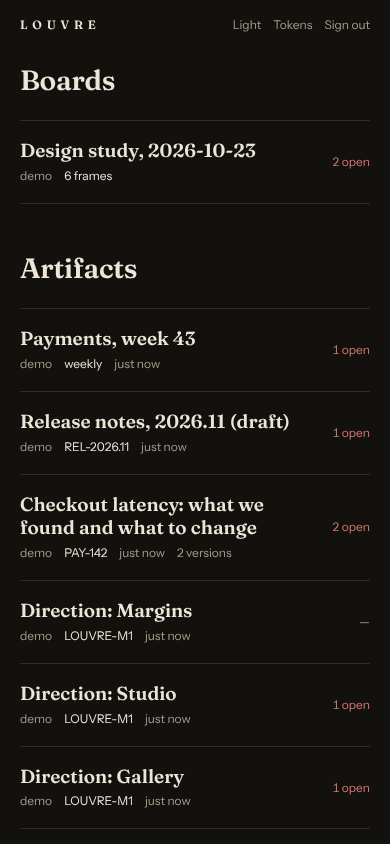
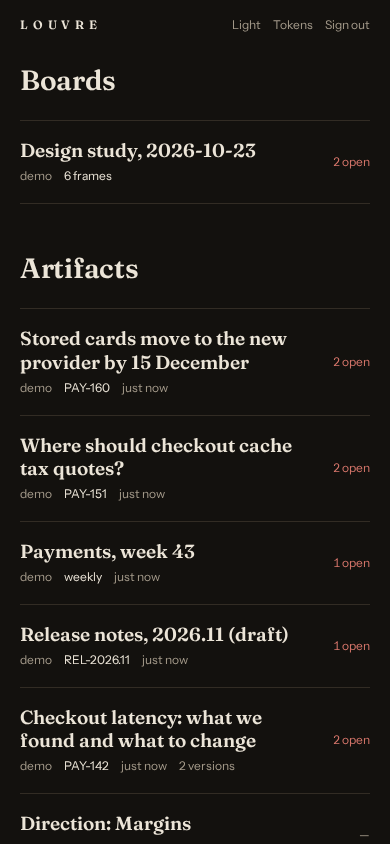
feat(demo): a decision and a plan in the house style, and the weekly report on its new components
The demo now shows each kind of artifact louvre-1 has a starter for, as an agent would write it, with
threads in the margin: a decision on where checkout caches tax quotes (PAY-151) and a plan to move stored
cards to a new provider (PAY-160). The weekly report uses the meta line, KPI changes, a labeled chart with a
legend, number columns, and a footer. Each is a scene in the screen matrix.

Claude-Session: https://claude.ai/code/session_01VfzVdbRGDhUrLtUKJFo9ax

diff --git a/src/louvre/core/demo/__init__.py b/src/louvre/core/demo/__init__.py
@@ -83,6 +83,8 @@ def seed(conn: Connection, *, base_url: str = "") -> bool:
             ({"canopy.ticket": "PAY-142"}, _checkout),
             ({"canopy.ticket": "REL-2026.11"}, _release_notes),
             ({"canopy.report": "weekly"}, _weekly),
+            ({"canopy.ticket": "PAY-151"}, _quote_cache),
+            ({"canopy.ticket": "PAY-160"}, _vault_migration),
         )
         missing = [
             part for marker, part in parts if not agent.overview(origin=marker, namespace=NAMESPACE)["artifacts"]
@@ -193,12 +195,11 @@ def _release_notes(agent: Store, people: dict[str, Store]) -> None:
 
 
 def _weekly(agent: Store, people: dict[str, Store]) -> None:
-    """An HTML page an agent wrote in the house style, from `style_get`."""
-    template = (_FILES / "weekly-metrics.html.tmpl").read_text(encoding="utf-8")
+    """A report an agent wrote in the house style, from `style_get`."""
     made = agent.publish(
         title="Payments, week 43",
         content_type="text/html",
-        content=template.replace("{css}", style.CSS.rstrip()),
+        content=_styled("weekly-metrics.html.tmpl"),
         origin={"canopy.report": "weekly"},
     )
     people["ana"].comment(
@@ -206,3 +207,54 @@ def _weekly(agent: Store, people: dict[str, Store]) -> None:
         Anchor.of("Declines at submit rose from 1.1% to 1.4%"),
         "Within what risk expected. Let's keep this line in next week's too.",
     )
+
+
+def _quote_cache(agent: Store, people: dict[str, Store]) -> None:
+    """A decision in the house style: options side by side, one recommended, a thread answered on its cost."""
+    made = agent.publish(
+        title="Where should checkout cache tax quotes?",
+        content_type="text/html",
+        content=_styled("quote-cache.html.tmpl"),
+        origin={"canopy.ticket": "PAY-151", "canopy.repo": "payments"},
+    )
+    artifact = str(made["artifact_id"])
+    node = people["raj"].comment(
+        artifact,
+        Anchor.of("One small node is enough"),
+        "We already run a Redis for sessions. Could quotes share it?",
+    )
+    agent.reply(
+        str(node["thread_id"]),
+        "They could, but a full cache evicts, and sessions would go with it. I'd keep them apart: the node is small.",
+    )
+    people["ana"].comment(artifact, None, "Redis, agreed. Ship it behind the flag.")
+
+
+def _vault_migration(agent: Store, people: dict[str, Store]) -> None:
+    """A plan in the house style: steps with their status, a risk, and a question a reader answers."""
+    made = agent.publish(
+        title="Stored cards move to the new provider by 15 December",
+        content_type="text/html",
+        content=_styled("vault-migration.html.tmpl"),
+        origin={"canopy.ticket": "PAY-160", "canopy.repo": "payments"},
+    )
+    artifact = str(made["artifact_id"])
+    people["sam"].comment(
+        artifact,
+        Anchor.of("Backfill the 1.2 million stored cards."),
+        "The new provider rate-limits imports to 50 cards a second. Does the plan allow for that?",
+    )
+    people["ana"].comment(
+        artifact,
+        Anchor.of("Does finance need a reconciliation report for each step, or only at the end?"),
+        "For each step: we close the month on the 3rd, and the backfill will straddle it.",
+    )
+
+
+def _styled(name: str) -> str:
+    """Read one of the demo's pages, with the house style inlined where it says `{css}`.
+
+    Returns:
+        The page.
+    """
+    return (_FILES / name).read_text(encoding="utf-8").replace("{css}", style.CSS.rstrip())

diff --git a/tests/louvre/core/demo/test_seed.py b/tests/louvre/core/demo/test_seed.py
@@ -1,6 +1,10 @@
 """The demo: published once, a part at a time, with the design study as its board."""
 
-from louvre.core import accounts, demo
+import re
+
+import pytest
+
+from louvre.core import accounts, demo, style
 from louvre.core.boards import shown
 from louvre.core.db import Connection
 from louvre.core.store import Store
@@ -21,7 +25,7 @@ def test_the_demo_is_published_once(conn: Connection) -> None:
 
     listed = reader(conn).overview()["artifacts"]
     assert isinstance(listed, list)
-    assert len(listed) == 6
+    assert len(listed) == 8
 
 
 def test_a_part_a_database_lacks_is_published_alone(conn: Connection) -> None:
@@ -39,7 +43,7 @@ def test_a_part_a_database_lacks_is_published_alone(conn: Connection) -> None:
         "Direction: Margins",
         "Direction: Studio",
     ]
-    assert len(titles) == 6
+    assert len(titles) == 8
 
 
 def test_the_design_study_is_a_board_of_each_direction_at_a_laptops_size_and_a_phones(conn: Connection) -> None:
@@ -81,3 +85,21 @@ def test_the_studys_pages_load_nothing_from_the_network(conn: Connection) -> Non
     for frame in shown(store, [demo.BOARD], demo.BOARD.id)["frames"]:  # type: ignore[union-attr]
         content = str(store.read(frame["artifact"]["id"])["content"])
         assert "https://" not in content, frame["id"]
+
+
+@pytest.mark.parametrize(
+    "origin",
+    [{"canopy.report": "weekly"}, {"canopy.ticket": "PAY-151"}, {"canopy.ticket": "PAY-160"}],
+)
+def test_its_house_style_pages_inline_the_style_and_use_only_its_classes(
+    conn: Connection,
+    origin: dict[str, str],
+) -> None:
+    demo.seed(conn)
+    store = reader(conn)
+    [made] = store.overview(origin=origin)["artifacts"]  # type: ignore[misc]
+    content = str(store.read(made["id"])["content"])
+    classes = {name for names in re.findall(r'class="([^"]+)"', content) for name in names.split()}
+
+    assert style.CSS.rstrip() in content
+    assert classes - {"louvre"} <= set(re.findall(r"\.(l-[a-z0-9-]+)", style.CSS))

diff --git a/tests/louvre/web/test_screens.py b/tests/louvre/web/test_screens.py
@@ -106,6 +106,8 @@ SCENES = (
     Scene("artifact-older", "An artifact's older version", "/a/{checkout}?v=1", _artifact_shown),
     Scene("markdown", "A Markdown artifact, in the house style", "/a/{notes}", _artifact_shown),
     Scene("house-style", "An HTML artifact in the house style", "/a/{weekly}", _artifact_shown),
+    Scene("house-style-decision", "A decision in the house style", "/a/{decision}", _artifact_shown),
+    Scene("house-style-plan", "A plan in the house style", "/a/{plan}", _artifact_shown),
     Scene("board", "A board, fitted to the screen", "/b/design-study", _board_shown),
     Scene(
         "board-frame",
@@ -127,6 +129,8 @@ DEMO = {
     "checkout": "Checkout latency",
     "notes": "Release notes",
     "weekly": "Payments, week",
+    "decision": "Where should checkout cache",
+    "plan": "Stored cards move",
     "gallery": "Direction: Gallery",
 }
 

diff --git a/tests/louvre/web/test_api.py b/tests/louvre/web/test_api.py
@@ -149,7 +149,7 @@ def test_the_demo_is_read_without_signing_in_but_not_written(web: MakeWeb) -> No
     response = client.post(f"/api/artifacts/{artifact}/threads", json={"body": "Hi."}, headers=WRITES)
 
     assert {a["namespace"] for a in listed} == {"demo"}
-    assert len(listed) == 6
+    assert len(listed) == 8
     assert response.status_code == 403
     assert response.json()["code"] == "read_only"
 

diff --git a/tests/louvre/cli/test_main.py b/tests/louvre/cli/test_main.py
@@ -52,4 +52,4 @@ def test_demo_publishes_once(runner: CliRunner, database_url: str, conn: Connect
     assert again.stdout == "the demo is published already\n"
     assert migrated.stdout == "the database is up to date\n"
     row = conn.execute("SELECT count(*) AS n FROM artifacts WHERE namespace = 'demo'").fetchone()
-    assert row == {"n": 6}
+    assert row == {"n": 8}

diff --git a/docs/screenshots/README.md b/docs/screenshots/README.md
@@ -158,6 +158,50 @@ Light:
 | --- | --- |
 | ![An HTML artifact in the house style, Phone, 390, light](house-style/phone-light.png) | ![An HTML artifact in the house style, Laptop, 1440, light](house-style/laptop-light.png) |
 
+## A decision in the house style
+
+`/a/{decision}`
+
+Narrow, dark:
+
+| Small phone, 360 | Phone, 390 | Tablet, 820 |
+| --- | --- | --- |
+| ![A decision in the house style, Small phone, 360, dark](house-style-decision/phone-small-dark.png) | ![A decision in the house style, Phone, 390, dark](house-style-decision/phone-dark.png) | ![A decision in the house style, Tablet, 820, dark](house-style-decision/tablet-dark.png) |
+
+Wide, dark:
+
+| Tablet landscape, 1180 | Laptop, 1440 | Wide, 1920 |
+| --- | --- | --- |
+| ![A decision in the house style, Tablet landscape, 1180, dark](house-style-decision/tablet-landscape-dark.png) | ![A decision in the house style, Laptop, 1440, dark](house-style-decision/laptop-dark.png) | ![A decision in the house style, Wide, 1920, dark](house-style-decision/wide-dark.png) |
+
+Light:
+
+| Phone, 390 | Laptop, 1440 |
+| --- | --- |
+| ![A decision in the house style, Phone, 390, light](house-style-decision/phone-light.png) | ![A decision in the house style, Laptop, 1440, light](house-style-decision/laptop-light.png) |
+
+## A plan in the house style
+
+`/a/{plan}`
+
+Narrow, dark:
+
+| Small phone, 360 | Phone, 390 | Tablet, 820 |
+| --- | --- | --- |
+| ![A plan in the house style, Small phone, 360, dark](house-style-plan/phone-small-dark.png) | ![A plan in the house style, Phone, 390, dark](house-style-plan/phone-dark.png) | ![A plan in the house style, Tablet, 820, dark](house-style-plan/tablet-dark.png) |
+
+Wide, dark:
+
+| Tablet landscape, 1180 | Laptop, 1440 | Wide, 1920 |
+| --- | --- | --- |
+| ![A plan in the house style, Tablet landscape, 1180, dark](house-style-plan/tablet-landscape-dark.png) | ![A plan in the house style, Laptop, 1440, dark](house-style-plan/laptop-dark.png) | ![A plan in the house style, Wide, 1920, dark](house-style-plan/wide-dark.png) |
+
+Light:
+
+| Phone, 390 | Laptop, 1440 |
+| --- | --- |
+| ![A plan in the house style, Phone, 390, light](house-style-plan/phone-light.png) | ![A plan in the house style, Laptop, 1440, light](house-style-plan/laptop-light.png) |
+
 ## A board, fitted to the screen
 
 `/b/design-study`
